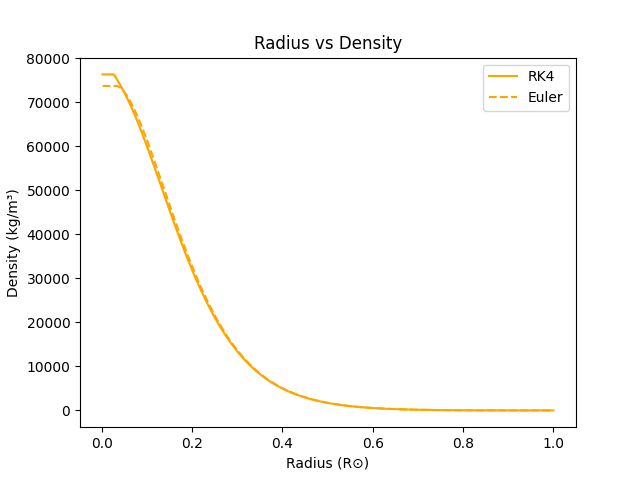
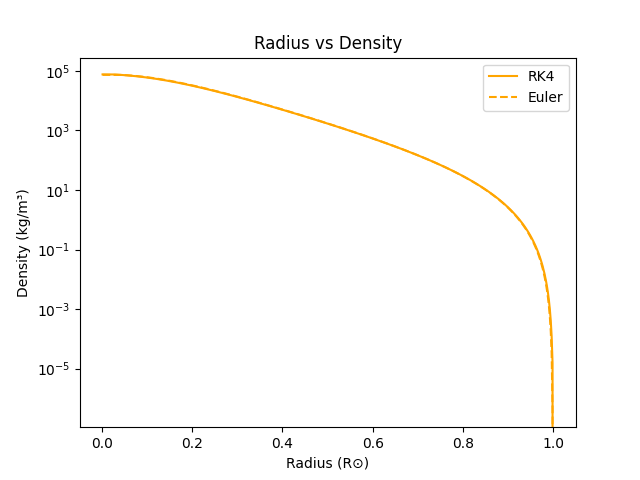
logscales!!!

diff --git a/data/data_reader.py b/data/data_reader.py
@@ -52,12 +52,12 @@ if __name__ == "__main__":
             add_to_arrs(row, rk4_mass, rk4_luminosity, rk4_pressure, rk4_temperature, rk4_density, rk4_egr, rk4_theta, rk4_y)
 
     # Plotting
-    draw_plot(plt, 0, radius, rk4_density, euler_density, "orange", "Density", "kg/m³")
-    draw_plot(plt, 1, radius, rk4_pressure, euler_pressure, "blue", "Pressure", "Pa")
-    draw_plot(plt, 2, radius, rk4_temperature, euler_temperature, "red", "Temperature", "K")
-    draw_plot(plt, 3, radius, rk4_mass, euler_mass, "green", "Mass", "kg")
-    draw_plot(plt, 4, radius, rk4_luminosity, euler_luminosity, "purple", "Luminosity", "W")
-    draw_plot(plt, 5, radius, rk4_egr, euler_egr, "pink", "Energy Generation Rate", "W/kg")
+    draw_plot(plt, 0, radius, rk4_density, euler_density, "orange", "Density", "kg/m³", True)
+    draw_plot(plt, 1, radius, rk4_pressure, euler_pressure, "blue", "Pressure", "Pa", True)
+    draw_plot(plt, 2, radius, rk4_temperature, euler_temperature, "red", "Temperature", "K", False)
+    draw_plot(plt, 3, radius, rk4_mass, euler_mass, "green", "Mass", "kg", False)
+    draw_plot(plt, 4, radius, rk4_luminosity, euler_luminosity, "purple", "Luminosity", "W", False)
+    draw_plot(plt, 5, radius, rk4_egr, euler_egr, "pink", "Energy Generation Rate", "W/kg", False)
 
     # Xi vs Theta, Y   
     plt.figure(6)

diff --git a/data/data_reader_util.py b/data/data_reader_util.py
@@ -43,12 +43,14 @@ def parseargs(argparse):
 
     return data_name
 
-def draw_plot(plt, n, radius, rk4_data, euler_data, color, data_name, unit):
+def draw_plot(plt, n, radius, rk4_data, euler_data, color, data_name, unit, logscale):
     plt.figure(n)
     plt.plot(radius, rk4_data, label='RK4', color=color, linestyle='solid')
     plt.plot(radius, euler_data, label='Euler', color=color, linestyle='dashed')
     plt.xlabel('Radius (R⊙)')
     plt.ylabel(f'{data_name} ({unit})')
     plt.title(f'Radius vs {data_name}')
+    if logscale:
+        plt.yscale('log')
     plt.legend()
     plt.savefig(f'data/profiles/radius_{data_name.lower().replace(" ", "_")}.png')